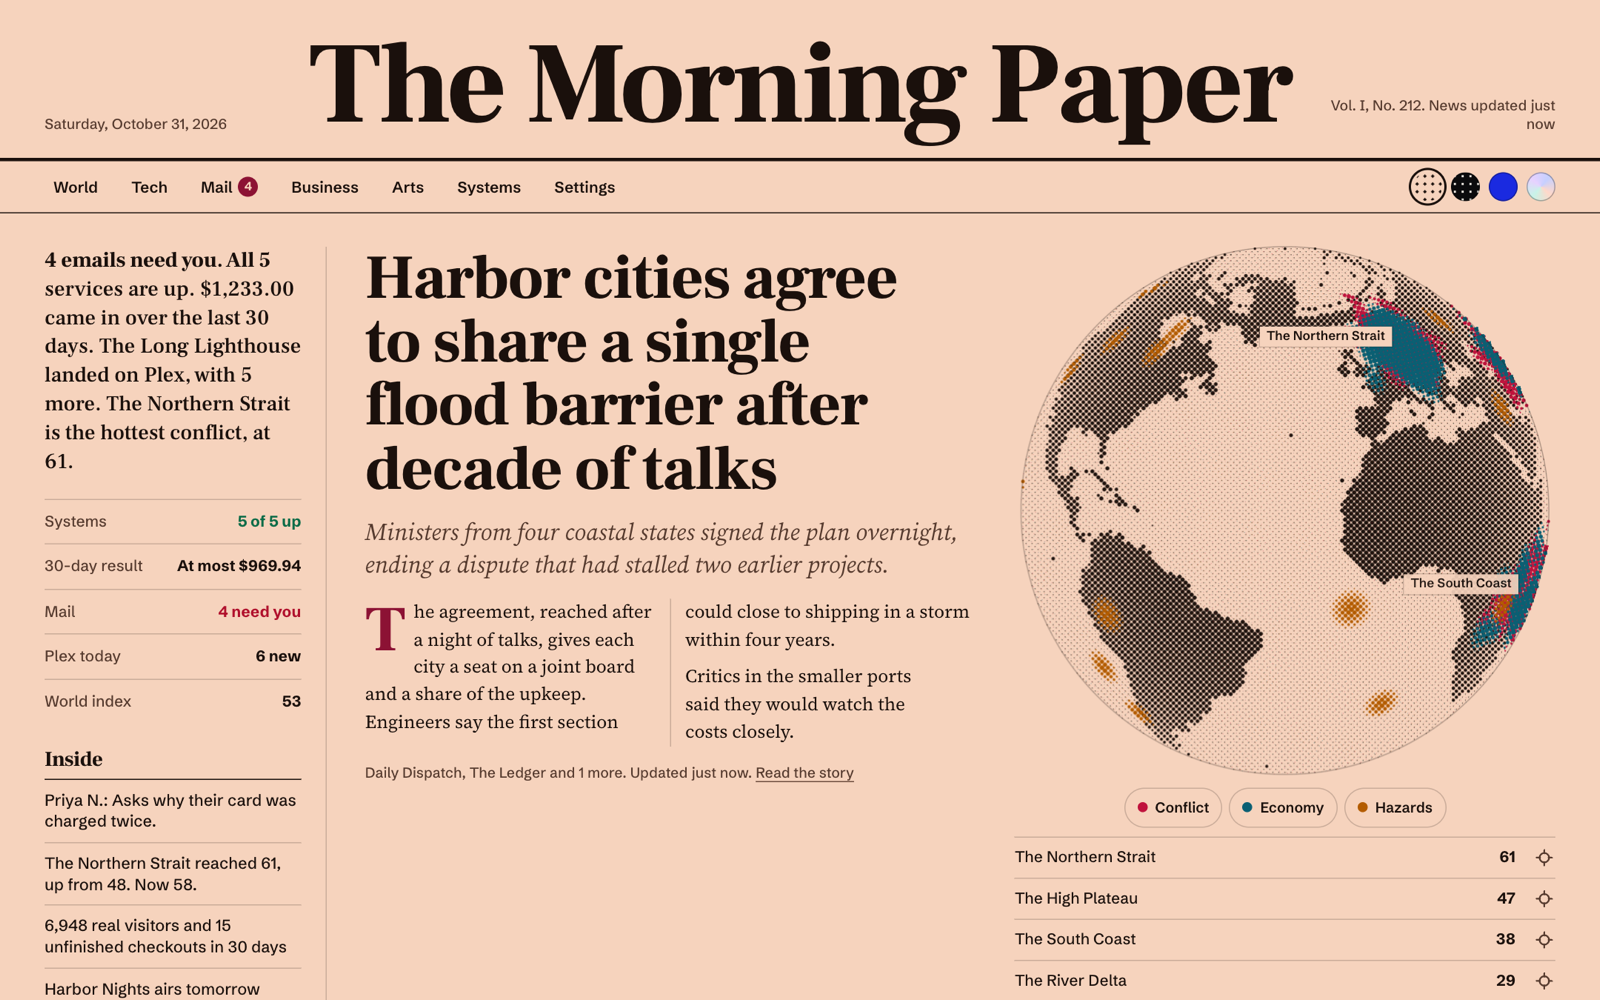
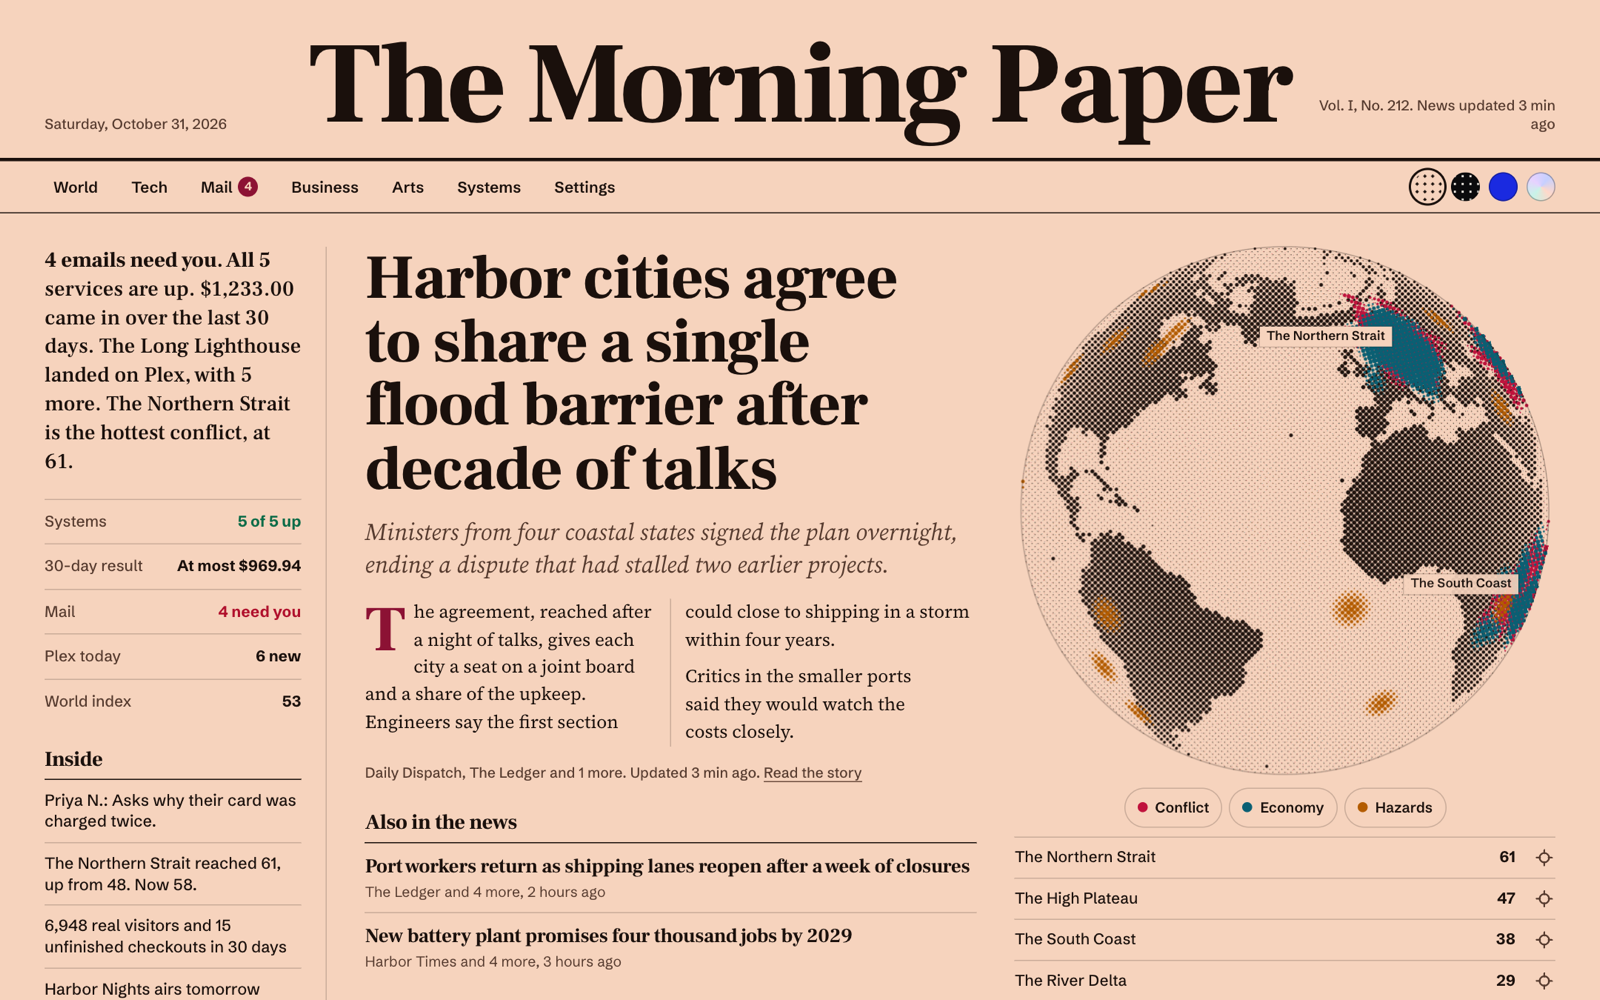
Fill the front page: try other outlets for the lead, and print what else is in the news
A publisher that turns the reader away left a blank column. Now the first outlet
with real words supplies the text and is named in the byline, and extra headlines
fill whatever room is left. Long names wrap instead of pushing the page sideways.

diff --git a/web/style.css b/web/style.css
@@ -97,7 +97,7 @@ caption { text-align: left; }
 .masthead { display: grid; grid-template-columns: 1fr auto 1fr; align-items: end; gap: 16px; padding: clamp(14px, 2.4vw, 26px) var(--gutter) clamp(8px, 1.4vw, 14px); }
 .ear { font: 500 13px/1.3 var(--ui); color: var(--ink2); padding-bottom: .6em; }
 .ear-r { text-align: right; }
-.nameplate { font: var(--head-weight) clamp(38px, 7.6vw, 104px)/.98 var(--display); letter-spacing: -.022em; text-align: center; white-space: nowrap; }
+.nameplate { font: var(--head-weight) clamp(38px, 7.6vw, 104px)/.98 var(--display); letter-spacing: -.022em; text-align: center; text-wrap: balance; }
 .nameplate a { text-decoration: none; color: inherit; }
 [data-theme=cobalt] .masthead { grid-template-columns: 1fr auto; }
 [data-theme=cobalt] .nameplate { grid-row: 1; grid-column: 1 / -1; text-align: left; font-size: clamp(30px, 6.5vw, 112px); font-stretch: 125%; letter-spacing: -.045em; line-height: .92; text-transform: uppercase; white-space: normal; }
@@ -156,6 +156,10 @@ main { padding: 0 var(--gutter); }
 .lead-body p:first-child::first-letter { float: left; font: 800 3.5em/.82 var(--display); padding: 5px 7px 0 0; color: var(--accent); }
 [data-theme=glass] .lead-body p:first-child::first-letter, [data-theme=cobalt] .lead-body p:first-child::first-letter { float: none; font: inherit; color: inherit; padding: 0; }
 .byline { font: 500 13px/1.4 var(--ui); color: var(--ink2); margin-top: 14px; }
+.also-head { margin-top: 26px; padding-bottom: 7px; font: 800 19px/1.1 var(--display); letter-spacing: var(--head-track); border-bottom: var(--rule) solid var(--line); }
+.also a { display: block; padding-top: 10px; font: 700 18px/1.22 var(--display); letter-spacing: var(--head-track); text-decoration: none; text-wrap: pretty; }
+.also span { display: block; padding: 3px 0 10px; font: 400 13px/1.3 var(--ui); color: var(--ink2); border-bottom: var(--rule) solid var(--hair); }
+.also li:last-child span { border-bottom: 0; }
 
 .orb { min-width: 0; }
 .orb-stage { position: relative; aspect-ratio: 1; width: 100%; max-width: 620px; margin: -6px auto 0; }
@@ -487,6 +491,7 @@ a:hover .poster::after, a:focus-visible .poster::after { opacity: 0; }
   .front { grid-template-columns: minmax(0, 1fr); }
   .note-col { grid-template-columns: minmax(0, 1fr); gap: 14px; }
   .lead-body { columns: 1; }
+  .also-head, .also { display: none; }
   .headline { font-size: clamp(32px, 9.4vw, 52px); }
   .orb { margin-top: 22px; }
   .orb-stage { max-width: min(100%, 520px); }

diff --git a/web/app.js b/web/app.js
@@ -61,12 +61,23 @@ function front(p) {
 
   const L = p.news.data?.lead;
   if (L) {
+    const story = reading(L.via?.u || L.u), also = p.news.data.also || [];
     $('#lead').innerHTML = `
-      <h1 class="headline"><a href="${reading(L.u)}">${tight(L.t)}</a></h1>
+      <h1 class="headline"><a href="${story}">${tight(L.t)}</a></h1>
       ${L.sum ? `<p class="deck">${esc(L.sum)}</p>` : ''}
       ${L.text ? `<div class="lead-body">${L.text}</div>` : ''}
-      <p class="byline">${esc(covered(L))}. Updated ${esc(ago(L.ts))}. <a href="${reading(L.u)}">Read the story</a></p>`;
+      <p class="byline">${esc(covered(L))}. Updated ${esc(ago(L.ts))}.${L.via && L.via.u !== L.u ? ` Text from ${esc(L.via.src)}.` : ''} <a href="${story}">Read the story</a></p>
+      ${also.length ? `<h2 class="also-head">Also in the news</h2><ul class="also">${also.map((n) => `<li><a href="${reading(n.u)}">${esc(n.t)}</a><span>${esc(n.n > 1 ? `${n.src} and ${n.n - 1} more` : n.src)}, ${esc(ago(n.ts))}</span></li>`).join('')}</ul>` : ''}`;
   }
+}
+
+// As many extra headlines as the lead column has room for, so it ends level with the globe and never runs past it.
+function fitAlso() {
+  const list = $('.also');
+  if (!list) return;
+  const room = Math.max($('#orb').getBoundingClientRect().bottom, $('#inside').getBoundingClientRect().bottom);  // their own heights: the column itself stretches to the tallest
+  while (list.lastElementChild && list.getBoundingClientRect().bottom > room) list.lastElementChild.remove();
+  if (!list.children.length) { list.previousElementSibling.remove(); list.remove(); }
 }
 
 // "BBC, New York Times and 4 more": who carried it, which is also why it ranks where it does.
@@ -446,6 +457,7 @@ function render() {
   if (p.on.money) business(p);
   if (p.on.media) arts(p);
   if (p.on.systems) systems(p);
+  fitAlso();
   if (!drawn) {
     drawn = true;
     document.body.classList.add('inked');

diff --git a/paper/server.py b/paper/server.py
@@ -504,18 +504,29 @@ def opening(body, deck):
     return "".join([p for p in paras if not start or re.sub(r"\W+", "", plain(p, 200).lower())[:50] != start][:3])
 
 
+ENRICH_TRIES = 4
+
+
 def enrich(story):
-    """The front page shows real opening paragraphs and a picture from the article. One fetch per story, misses included."""
+    """The front page shows real opening paragraphs and a picture from the article. Publishers often turn the reader away, so it tries
+    the outlets carrying the story until one has words, and names that outlet. One pass per story, misses included."""
     if story["u"] not in ENRICHED:
         if len(ENRICHED) > 500:
             ENRICHED.clear()
-        try:
-            page = read_page(story["u"])
-            ENRICHED[story["u"]] = (page.get("image"), opening(page.get("body"), story["sum"] or plain(page.get("deck"))), plain(page.get("deck")))
-        except Exception:  # noqa: BLE001 - one strange article must not stop the news desk
-            ENRICHED[story["u"]] = (None, "", "")
-    image, text, deck = ENRICHED[story["u"]]
-    return {**story, "img": story["img"] or image, "text": text, "sum": story["sum"] or deck}
+        image, text, deck, via = None, "", "", None
+        for outlet in story.get("outlets", [{"u": story["u"], "src": story["src"]}])[:ENRICH_TRIES]:
+            try:
+                page = read_page(outlet["u"])
+            except Exception:  # noqa: BLE001 - one strange article must not stop the news desk
+                continue
+            image, deck = image or page.get("image"), deck or plain(page.get("deck"))
+            text = opening(page.get("body"), story["sum"] or plain(page.get("deck")))
+            if text:
+                via = outlet
+                break
+        ENRICHED[story["u"]] = (image, text, deck, via)
+    image, text, deck, via = ENRICHED[story["u"]]
+    return {**story, "img": story["img"] or image, "text": text, "sum": story["sum"] or deck, "via": via}
 
 
 def picks(ranked, count):
@@ -543,9 +554,11 @@ def news():
     ranked = sorted(stories, key=lambda c: -heat(c, now))
     hard = [c for c in ranked if set(c["desks"]) & set(NEWS_DESKS)]
     tops = picks(hard, 5)
+    lead = next((t for t in tops if t["text"]), tops[0] if tops else None)  # a lead with words beats a slightly hotter one with none
     used = {c["u"] for c in tops}  # a story leads one desk only
+    also = [{"u": c["u"], "t": c["t"], "src": c["src"], "n": len(c["outlets"]), "ts": c["ts"]} for c in hard if c["u"] not in used][:6]
     tech = [c for c in ranked if set(c["desks"]) & set(TECH_DESKS) and c["u"] not in used]
-    return {"lead": tops[0] if tops else None, "tops": tops[1:], "tech_lead": (picks(tech, 1) or [None])[0], "stories": stories[:400], "feeds": sum(s["ok"] for s in FEED_STATE.values()), "total": len(feeds), "outlets": len({f[1] for f in feeds})}
+    return {"lead": lead, "tops": [t for t in tops if t is not lead], "also": also, "tech_lead": (picks(tech, 1) or [None])[0], "stories": stories[:400], "feeds": sum(s["ok"] for s in FEED_STATE.values()), "total": len(feeds), "outlets": len({f[1] for f in feeds})}
 
 
 def news_view(data):

diff --git a/tests/test_paper.py b/tests/test_paper.py
@@ -207,5 +207,26 @@ for kind, ident in (("product", "stripe"), ("service", "nope")):  # well formed,
         continue
     raise AssertionError((kind, ident))
 
+tries = []
+
+
+def page_for(url):
+    tries.append(url)
+    if "paywall" in url:
+        raise OSError("403")
+    return {"image": "https://open.example/p.jpg", "deck": "A deck", "body": "<p>Real words from the open outlet.</p>" if "open" in url else ""}
+
+
+real_read, s.read_page = s.read_page, page_for
+shut = {"u": "https://paywall.example/a", "src": "Paywall", "sum": "", "img": None, "outlets": [{"src": "Paywall", "u": "https://paywall.example/a"}, {"src": "Empty", "u": "https://empty.example/a"}, {"src": "Open", "u": "https://open.example/a"}, {"src": "Later", "u": "https://open.example/b"}]}
+got = s.enrich(shut)
+assert got["text"] == "<p>Real words from the open outlet.</p>" and got["via"]["src"] == "Open" and got["img"], "a refused publisher must not leave the front page blank, and the text names its outlet"
+assert len(tries) == 3, "it stops at the first outlet with words"
+s.enrich(shut)
+assert len(tries) == 3, "one pass per story, however often the desk refreshes"
+none = s.enrich({"u": "https://paywall.example/b", "src": "Paywall", "sum": "", "img": None, "outlets": [{"src": "Paywall", "u": "https://paywall.example/b"}]})
+assert none["text"] == "" and none["via"] is None
+s.read_page = real_read
+
 exec(open(Path(__file__).with_name("test_settings.py")).read())
 print("all good")

diff --git a/tools/demo.py b/tools/demo.py
@@ -79,7 +79,8 @@ def news():
     for i, c in enumerate(stories[:6] + stories[7:8]):
         c["img"] = picture(f"story{i}")
     lead = {**stories[0], "text": "<p>The agreement, reached after a night of talks, gives each city a seat on a joint board and a share of the upkeep. Engineers say the first section could close to shipping in a storm within four years.</p><p>Critics in the smaller ports said they would watch the costs closely.</p>"}
-    return {"lead": lead, "tops": stories[1:5], "tech_lead": {**stories[7], "text": ""}, "stories": stories * 4, "feeds": 57, "total": 57, "outlets": 50}
+    also = [{"u": c["u"], "t": c["t"], "src": c["src"], "n": len(c["outlets"]), "ts": c["ts"]} for c in stories[5:7] + stories[8:11]]
+    return {"lead": lead, "tops": stories[1:5], "also": also, "tech_lead": {**stories[7], "text": ""}, "stories": stories * 4, "feeds": 57, "total": 57, "outlets": 50}
 
 
 def world():

diff --git a/docs/warroom-api.md b/docs/warroom-api.md
@@ -32,7 +32,9 @@ All are `GET`.
 
 `/events` takes `limit` (1 to 300, default 100), `min_severity` (0 to 1), `theater`, `domain` (`kinetic` or `economic`), `since` (unix seconds, rounded down to the minute) and `cursor` (from `next_cursor`).
 
-`/intel` takes `scope` (`theater`, `thread` or `global`), `scope_id` and `limit` (1 to 20).
+`/intel` takes `scope` (`theater`, `thread` or `global`), `scope_id`, which needs a `scope`, and `limit` (1 to 20).
+
+The parameters listed here are the only ones that do anything. Others are ignored.
 
 Times are unix seconds, UTC. Every answer carries `meta.generated_at` and `meta.license`. Lists look like this:
 
@@ -44,7 +46,7 @@ An event:
 
 ```json
 {
-  "id": "4f1c9a27b3e05d18",
+  "id": "4f1c9a27b3e05d18a61c0e72d94b3f65",
   "ts": 1793484729,
   "title": "Headline in English",
   "summary": "Summary, when there is one",
@@ -55,12 +57,12 @@ An event:
   "place": "City", "admin1": "Region", "country": "XX",
   "lat": 0.0, "lon": 0.0,
   "theater": "theater_id",
-  "thread_id": "thr:1a2b3c4d",
+  "thread_id": "thr:1a2b3c4d5e6f7a8b9c0d1e2f",
   "actor_a": null, "actor_b": null,
   "fatalities": null,
   "source": "gdelt_events",
   "source_url": "https://publisher.example/story",
-  "title_source": "publisher",
+  "title_source": "headline",
   "lang": "en"
 }
 ```
@@ -69,16 +71,20 @@ Errors look like `{"ok": false, "ts": 1793485138, "error": {"code": "not_found",
 
 ## Limits
 
-30 requests in a burst, then 75 a minute, per address. Past that you get `429` with a `Retry-After` header. Answers are cached on the server for the times above, so polling faster than that returns the same bytes and spends your allowance. If a refresh fails you get the last good copy, so check `meta.generated_at`.
+30 requests in a burst, then 75 a minute, per address (per /64 on IPv6). Past that you get `429` with a `Retry-After` header. Answers are cached on the server for the times above, so polling faster than that returns the same bytes and spends your allowance.
+
+If a refresh fails or the server is busy you get the last good copy, up to an hour old, so check `meta.generated_at`. With no copy to give you get `502`, or `503` with `Retry-After`.
 
 Any site may call it from a browser: `Access-Control-Allow-Origin` is `*`.
 
 ## What it leaves out
 
-Market prices, ACLED data and vessel positions are licensed for reading on WARROOM itself, not for passing on, so they aren't here. That is why the paper's Markets table only appears if you run your own WARROOM.
+Price series, ACLED data and vessel positions are for reading on WARROOM itself, not for passing on, so they aren't here. Neither are events from those feeds, or chokepoint risk summaries, which quote them. That is why the paper's Markets table only appears if you run your own WARROOM.
+
+Assessments and analyst notes are written by a machine with market and shipping data in view, so their text can mention a move or a traffic figure. It is commentary, not a data feed.
 
 ## Using the data
 
-Free to use with attribution to WARROOM (war.wakxi.com). Headlines and links belong to their publishers. The data comes from GDELT, USGS, NASA FIRMS, NASA EONET, GDACS, NOAA SWPC, ReliefWeb, OFAC, the Federal Register and public news and Telegram channels.
+Free to use with attribution to WARROOM (war.wakxi.com). Headlines, summaries and links belong to their publishers. The data comes from GDELT, USGS, NASA FIRMS, NASA EONET, GDACS, NOAA SWPC, ReliefWeb, OFAC, the Federal Register and public news and Telegram channels. Asset counts come from CelesTrak, OpenSky, ADS-B and AIS feeds.
 
 Reports are unverified and assessments are written by a machine. Do not use them for safety, targeting or trading decisions. There is no warranty, and no promise it stays up.
